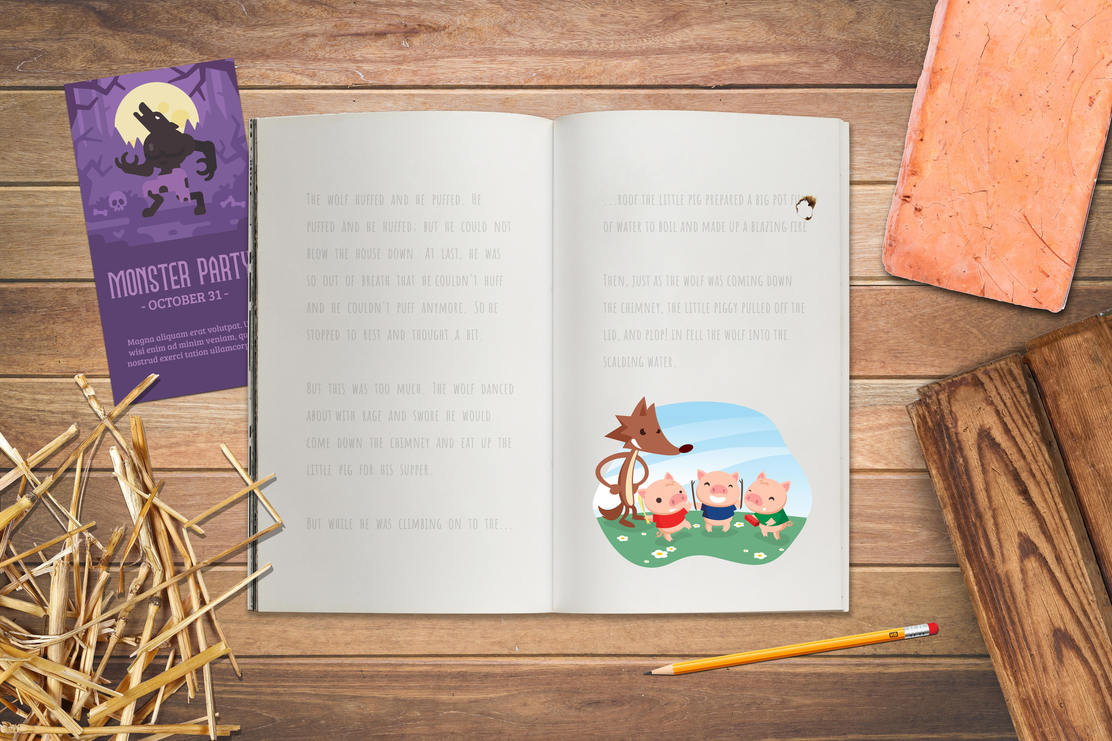
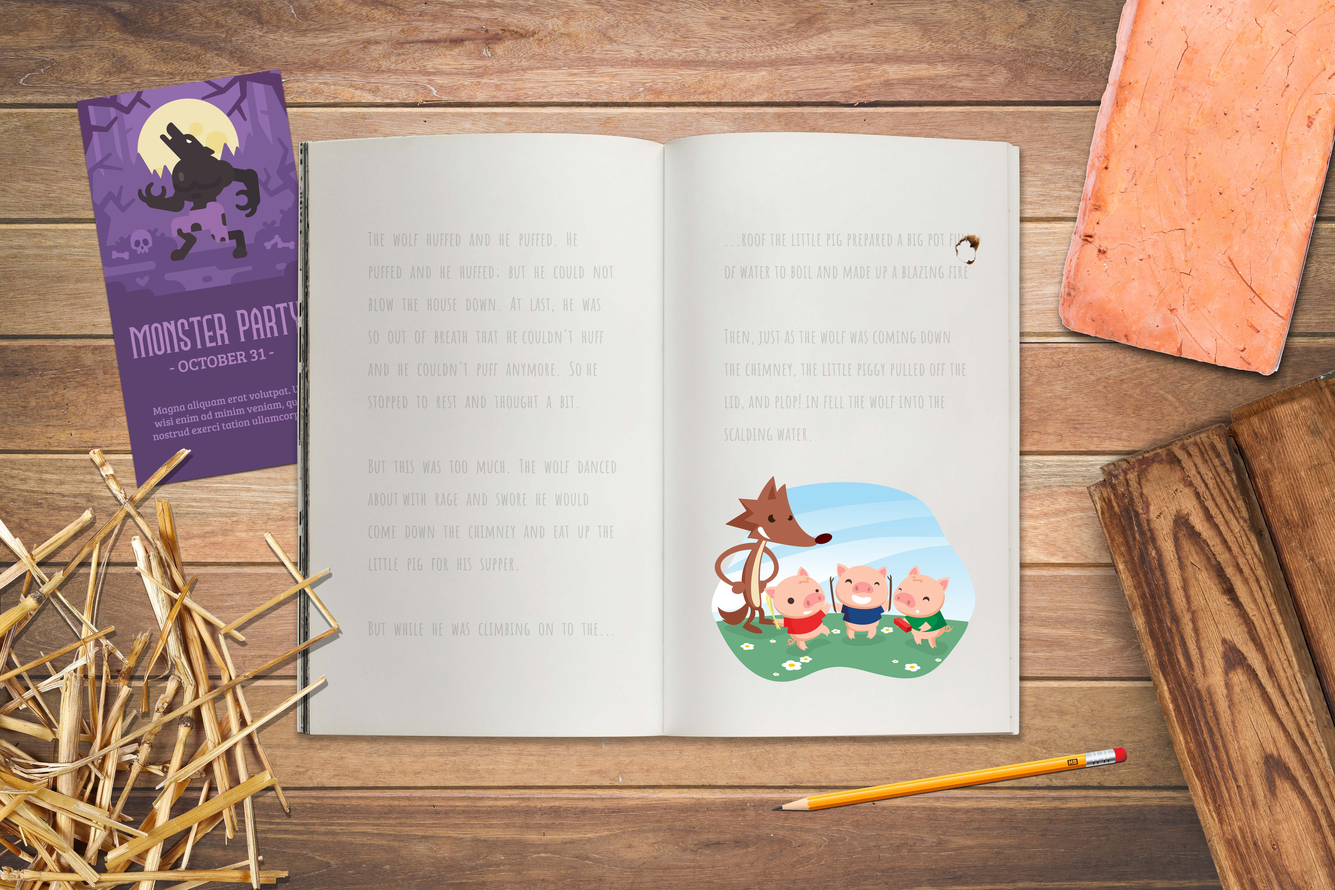
chore: background tweaking

diff --git a/src/sprites/player.sprite.ts b/src/sprites/player.sprite.ts
@@ -1,7 +1,7 @@
 const GRAVITY_FORCE = 2000;
 const MOVE_SPEED = 250;
 const JUMP_FORCE = 600;
-const JUMP_LIMIT = 2;
+const JUMP_LIMIT = 200;
 const COLLISION_WIDTH = 40;
 const COLLISION_HEIGHT = 69;
 
@@ -23,35 +23,35 @@ export class PlayerSprite extends Phaser.Physics.Arcade.Sprite {
     this.jumpForce = JUMP_FORCE;
     (this.body as Phaser.Physics.Arcade.Body).setSize(
       COLLISION_WIDTH,
-      COLLISION_HEIGHT,
+      COLLISION_HEIGHT
     );
     this.setRespawnPosition(x, y);
 
     this.scene.anims.create({
       key: "idle",
       frames: this.scene.anims.generateFrameNumbers("player_idle", {
-        frames: [0, 1, 0, 1, 2, 1, 0, 1],
+        frames: [0, 1, 0, 1, 2, 1, 0, 1]
       }),
       frameRate: 5,
-      repeat: -1,
+      repeat: -1
     });
 
     this.scene.anims.create({
       key: "jump",
       frames: this.scene.anims.generateFrameNumbers("player_jumping", {
-        frames: [3, 4],
+        frames: [3, 4]
       }),
       frameRate: 5,
-      repeat: -1,
+      repeat: -1
     });
 
     this.scene.anims.create({
       key: "walk",
       frames: this.scene.anims.generateFrameNumbers("player_walking", {
-        frames: [5, 6],
+        frames: [5, 6]
       }),
       frameRate: 6,
-      repeat: -1,
+      repeat: -1
     });
 
     this.play("idle");
@@ -98,7 +98,7 @@ export class PlayerSprite extends Phaser.Physics.Arcade.Sprite {
       x: cameraX,
       y: cameraY,
       width: cameraWidth,
-      height: cameraHeight,
+      height: cameraHeight
     } = camera.worldView;
 
     return (

diff --git a/src/scenes/PlayScene.ts b/src/scenes/PlayScene.ts
@@ -64,7 +64,7 @@ class TestScene extends Phaser.Scene {
   public create() {
     const background = this.add.image(0, 0, "background");
     background.setOrigin(0, 0);
-    background.setScale(1.5);
+    background.setScale(1.2);
 
     this.platforms = this.physics.add.staticGroup();
     this.respawnPlatforms = this.physics.add.staticGroup();
@@ -72,10 +72,10 @@ class TestScene extends Phaser.Scene {
     let pageOffset = 0;
 
     pages.forEach((page) => {
-      let lineY = 1300;
+      let lineY = 1250;
       page.forEach((line) => {
         const currentLine = line.split(" ");
-        let wordX = 2050;
+        let wordX = 2000;
 
         currentLine.forEach((word) => {
           const currentWord = this.add.text(wordX + pageOffset, lineY, word, {
@@ -145,8 +145,8 @@ class TestScene extends Phaser.Scene {
     this.cameras.main.setBounds(
       0,
       0,
-      background.width * 1.5,
-      background.height * 1.5,
+      background.width * 1.2,
+      background.height * 1.2,
     );
     this.cameras.main.startFollow(this.player, false);
 
